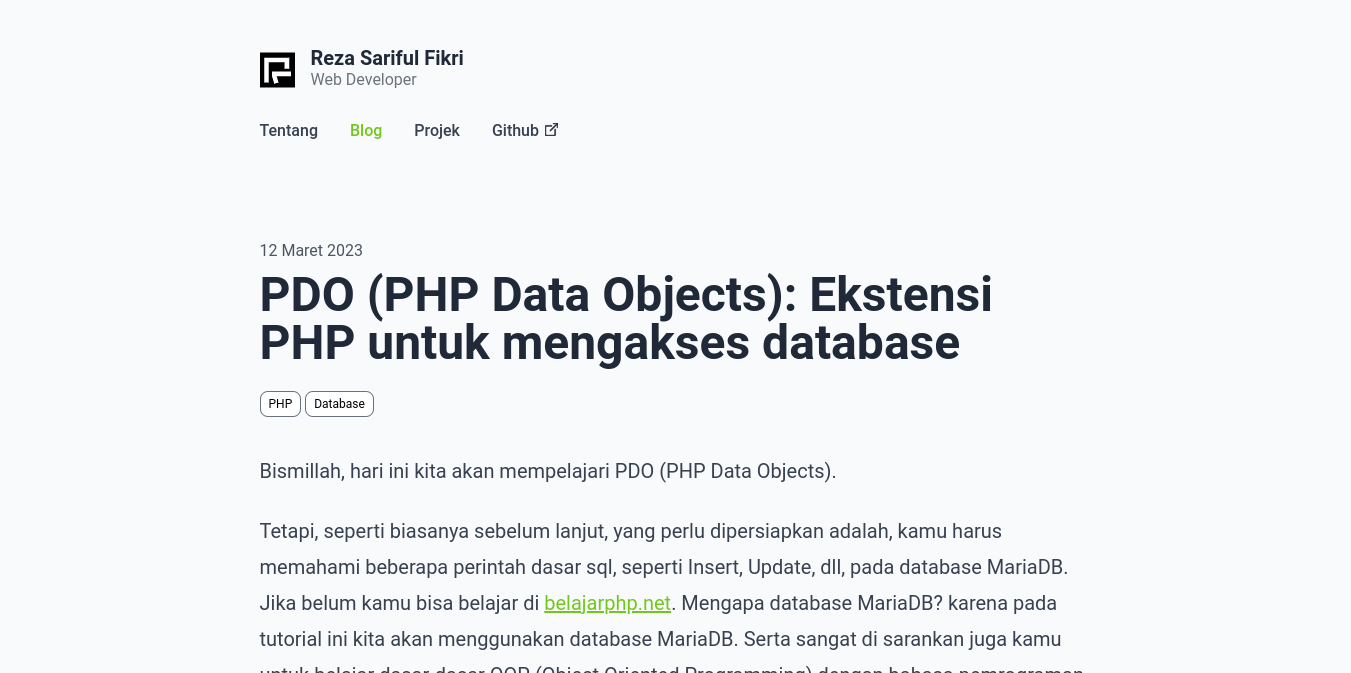
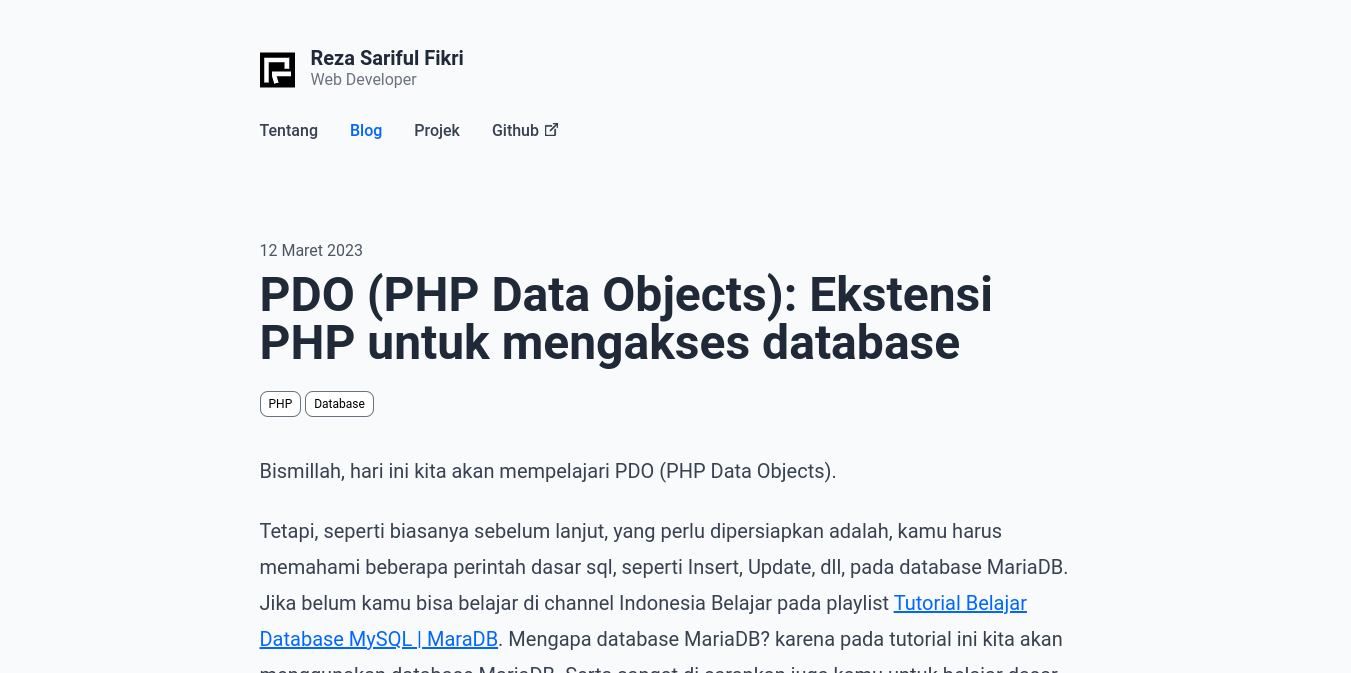
refactor: improve contrast color, add lang attribute in html tag and remove activeTopic file

Changed region(s): [[0.1865, 0.8737, 0.8083, 1.0], [0.2487, 0.1872, 0.2798, 0.2184]]

diff --git a/pages/about.js b/pages/about.js
@@ -24,16 +24,16 @@ export default function About({ name, baseUrl }) {
           <img src="/rezas.jpg" height={150} width={150} alt="Photo Profile" className="rounded-full" loading="lazy" decoding="async" />
         </div>
         <div className="flex gap-2 mt-5">
-          <Link href="https://github.com/rezafikkri" rel="noopener noreferrer" target="_blank" className="border-2 border-gray-500 hover:border-ajwa-green rounded-lg px-2.5 py-1.5">
+          <Link href="https://github.com/rezafikkri" rel="noopener noreferrer" target="_blank" className="border-2 border-gray-500 hover:border-ajwa-blue rounded-lg px-2.5 py-1.5">
             <svg xmlns="http://www.w3.org/2000/svg" width="17" height="17" viewBox="0 0 16 16"><path d="M8 0C3.58 0 0 3.58 0 8c0 3.54 2.29 6.53 5.47 7.59.4.07.55-.17.55-.38 0-.19-.01-.82-.01-1.49-2.01.37-2.53-.49-2.69-.94-.09-.23-.48-.94-.82-1.13-.28-.15-.68-.52-.01-.53.63-.01 1.08.58 1.23.82.72 1.21 1.87.87 2.33.66.07-.52.28-.87.51-1.07-1.78-.2-3.64-.89-3.64-3.95 0-.87.31-1.59.82-2.15-.08-.2-.36-1.02.08-2.12 0 0 .67-.21 2.2.82.64-.18 1.32-.27 2-.27.68 0 1.36.09 2 .27 1.53-1.04 2.2-.82 2.2-.82.44 1.1.16 1.92.08 2.12.51.56.82 1.27.82 2.15 0 3.07-1.87 3.75-3.65 3.95.29.25.54.73.54 1.48 0 1.07-.01 1.93-.01 2.2 0 .21.15.46.55.38A8.012 8.012 0 0 0 16 8c0-4.42-3.58-8-8-8z"/></svg>
           </Link>
-          <Link href="https://twitter.com/fikkrireza" rel="noopener noreferrer" target="_blank" className="border-2 border-gray-500 hover:border-ajwa-green rounded-lg px-2.5 py-1.5">
+          <Link href="https://twitter.com/fikkrireza" rel="noopener noreferrer" target="_blank" className="border-2 border-gray-500 hover:border-ajwa-blue rounded-lg px-2.5 py-1.5">
             <svg xmlns="http://www.w3.org/2000/svg" width="17" height="17" viewBox="0 0 16 16"><path d="M5.026 15c6.038 0 9.341-5.003 9.341-9.334 0-.14 0-.282-.006-.422A6.685 6.685 0 0 0 16 3.542a6.658 6.658 0 0 1-1.889.518 3.301 3.301 0 0 0 1.447-1.817 6.533 6.533 0 0 1-2.087.793A3.286 3.286 0 0 0 7.875 6.03a9.325 9.325 0 0 1-6.767-3.429 3.289 3.289 0 0 0 1.018 4.382A3.323 3.323 0 0 1 .64 6.575v.045a3.288 3.288 0 0 0 2.632 3.218 3.203 3.203 0 0 1-.865.115 3.23 3.23 0 0 1-.614-.057 3.283 3.283 0 0 0 3.067 2.277A6.588 6.588 0 0 1 .78 13.58a6.32 6.32 0 0 1-.78-.045A9.344 9.344 0 0 0 5.026 15z"/></svg>
           </Link>
-          <Link href="https://www.linkedin.com/in/reza-sariful-fikri-9356ab16a/" rel="noopener noreferrer" target="_blank" className="border-2 border-gray-500 hover:border-ajwa-green rounded-lg px-2.5 py-1.5">
+          <Link href="https://www.linkedin.com/in/reza-sariful-fikri-9356ab16a/" rel="noopener noreferrer" target="_blank" className="border-2 border-gray-500 hover:border-ajwa-blue rounded-lg px-2.5 py-1.5">
             <svg xmlns="http://www.w3.org/2000/svg" width="17" height="17" viewBox="0 0 16 16"><path d="M0 1.146C0 .513.526 0 1.175 0h13.65C15.474 0 16 .513 16 1.146v13.708c0 .633-.526 1.146-1.175 1.146H1.175C.526 16 0 15.487 0 14.854V1.146zm4.943 12.248V6.169H2.542v7.225h2.401zm-1.2-8.212c.837 0 1.358-.554 1.358-1.248-.015-.709-.52-1.248-1.342-1.248-.822 0-1.359.54-1.359 1.248 0 .694.521 1.248 1.327 1.248h.016zm4.908 8.212V9.359c0-.216.016-.432.08-.586.173-.431.568-.878 1.232-.878.869 0 1.216.662 1.216 1.634v3.865h2.401V9.25c0-2.22-1.184-3.252-2.764-3.252-1.274 0-1.845.7-2.165 1.193v.025h-.016a5.54 5.54 0 0 1 .016-.025V6.169h-2.4c.03.678 0 7.225 0 7.225h2.4z"/></svg>
           </Link>
-          <Link href="https://web.facebook.com/reza.sariful.fikri" rel="noopener noreferrer" target="_blank" className="border-2 border-gray-500 hover:border-ajwa-green rounded-lg px-2.5 py-1.5">
+          <Link href="https://web.facebook.com/reza.sariful.fikri" rel="noopener noreferrer" target="_blank" className="border-2 border-gray-500 hover:border-ajwa-blue rounded-lg px-2.5 py-1.5">
             <svg xmlns="http://www.w3.org/2000/svg" width="17" height="17" viewBox="0 0 16 16"><path d="M16 8.049c0-4.446-3.582-8.05-8-8.05C3.58 0-.002 3.603-.002 8.05c0 4.017 2.926 7.347 6.75 7.951v-5.625h-2.03V8.05H6.75V6.275c0-2.017 1.195-3.131 3.022-3.131.876 0 1.791.157 1.791.157v1.98h-1.009c-.993 0-1.303.621-1.303 1.258v1.51h2.218l-.354 2.326H9.25V16c3.824-.604 6.75-3.934 6.75-7.951z"/></svg>
           </Link>
         </div>

diff --git a/components/header.js b/components/header.js
@@ -4,7 +4,7 @@ import { useRouter } from "next/router";
 function activeNav(href) {
   const router = useRouter();
   const regex = new RegExp(`${href}*`);
-  if (regex.test(router.asPath)) return 'text-ajwa-green';
+  if (regex.test(router.asPath)) return 'text-ajwa-blue';
 }
 
 export default function Header() {
@@ -20,18 +20,18 @@ export default function Header() {
       <nav className={`mt-5 text-gray-700 font-medium`}>
         <ul>
           <li className="inline-block pr-8">
-            <Link href="/about" className={`hover:text-ajwa-green no-underline ${activeNav('/about')}`}>Tentang</Link>
+            <Link href="/about" className={`hover:text-ajwa-blue no-underline ${activeNav('/about')}`}>Tentang</Link>
           </li>
           <li className="inline-block pr-8">
-            <Link href="/blogs" className={`hover:text-ajwa-green no-underline ${activeNav('/blogs')}`}>Blog</Link>
+            <Link href="/blogs" className={`hover:text-ajwa-blue no-underline ${activeNav('/blogs')}`}>Blog</Link>
           </li>
           <li className="inline-block pr-8">
-            <Link href="/projects" className={`hover:text-ajwa-green no-underline ${activeNav('/projects')}`}>Projek</Link>
+            <Link href="/projects" className={`hover:text-ajwa-blue no-underline ${activeNav('/projects')}`}>Projek</Link>
           </li>
           <li className="inline-block">
-            <Link href="https://github.com/rezafikkri" className="group hover:text-ajwa-green no-underline" rel="noopener noreferrer" target="_blank">
+            <Link href="https://github.com/rezafikkri" className="group hover:text-ajwa-blue no-underline" rel="noopener noreferrer" target="_blank">
               <span className="mr-1.5">Github</span>
-              <svg xmlns="http://www.w3.org/2000/svg" width="13" height="13" className="inline-block align-baseline stroke-gray-700 group-hover:stroke-green-500" viewBox="0 0 16 16"><path fillRule="evenodd" d="M8.636 3.5a.5.5 0 0 0-.5-.5H1.5A1.5 1.5 0 0 0 0 4.5v10A1.5 1.5 0 0 0 1.5 16h10a1.5 1.5 0 0 0 1.5-1.5V7.864a.5.5 0 0 0-1 0V14.5a.5.5 0 0 1-.5.5h-10a.5.5 0 0 1-.5-.5v-10a.5.5 0 0 1 .5-.5h6.636a.5.5 0 0 0 .5-.5z"/><path fillRule="evenodd" d="M16 .5a.5.5 0 0 0-.5-.5h-5a.5.5 0 0 0 0 1h3.793L6.146 9.146a.5.5 0 1 0 .708.708L15 1.707V5.5a.5.5 0 0 0 1 0v-5z"/></svg>
+              <svg xmlns="http://www.w3.org/2000/svg" width="13" height="13" className="inline-block align-baseline stroke-gray-700 group-hover:stroke-ajwa-blue" viewBox="0 0 16 16"><path fillRule="evenodd" d="M8.636 3.5a.5.5 0 0 0-.5-.5H1.5A1.5 1.5 0 0 0 0 4.5v10A1.5 1.5 0 0 0 1.5 16h10a1.5 1.5 0 0 0 1.5-1.5V7.864a.5.5 0 0 0-1 0V14.5a.5.5 0 0 1-.5.5h-10a.5.5 0 0 1-.5-.5v-10a.5.5 0 0 1 .5-.5h6.636a.5.5 0 0 0 .5-.5z"/><path fillRule="evenodd" d="M16 .5a.5.5 0 0 0-.5-.5h-5a.5.5 0 0 0 0 1h3.793L6.146 9.146a.5.5 0 1 0 .708.708L15 1.707V5.5a.5.5 0 0 0 1 0v-5z"/></svg>
             </Link>
           </li>
         </ul>

diff --git a/pages/index.js b/pages/index.js
@@ -34,7 +34,7 @@ export default function Home({ topics, latestPosts, name, baseUrl }) {
         <ul className="mt-6 flex flex-col divide-y divide-gray-200">
           {latestPosts.map((post, index) => (
             <li className="py-2 md:py-1.5" key={index}>
-              <Link href={`/blogs/${post.slug}`} className="flex flex-col md:flex-row md:justify-between no-underline hover:text-ajwa-green">
+              <Link href={`/blogs/${post.slug}`} className="flex flex-col md:flex-row md:justify-between no-underline hover:text-ajwa-blue">
                 <h3 className="text-xl">{post.title}</h3>
                 <time className="font-light md:basis-40 md:text-right">{dayjs(post.date).fromNow()}</time>
               </Link>
@@ -76,7 +76,7 @@ export default function Home({ topics, latestPosts, name, baseUrl }) {
             </div>
           </div>
         </div>
-        <Link href="/projects" className="inline-block no-underline mt-5 hover:text-ajwa-green">Lihat Semua &raquo;</Link>
+        <Link href="/projects" className="inline-block no-underline mt-5 hover:text-ajwa-blue">Lihat Semua &raquo;</Link>
       </section>
     </>
   )

diff --git a/pages/blogs/topics/[topic].js b/pages/blogs/topics/[topic].js
@@ -2,7 +2,6 @@ import Head from "next/head";
 import Link from "next/link";
 import PostList from "@/components/post-list";
 import { getPosts, getTopics } from "@/lib/posts";
-import activeTopic from "@/lib/activeTopic";
 
 export default function Topic({ selectedTopic, topics, posts, name, baseUrl }) {
   const title = `${selectedTopic} - ${name}`;
@@ -26,7 +25,7 @@ export default function Topic({ selectedTopic, topics, posts, name, baseUrl }) {
             <Link
               key={index}
               href={`/blogs/topics/${topic}`}
-              className={`no-underline bg-white border-2 border-gray-500 hover:border-ajwa-green px-2 py-1 rounded-lg ${activeTopic(topic, selectedTopic)}`}
+              className={`no-underline bg-white border-2 ${selectedTopic == topic ? 'border-ajwa-blue' : 'border-gray-500'} hover:border-ajwa-blue px-2 py-1 rounded-lg`}
             >
               {topic}
             </Link>

diff --git a/components/post-list.js b/components/post-list.js
@@ -16,7 +16,7 @@ export default function PostList({ posts }) {
           <React.Fragment key={index}>
             {currentYear != year && <h3 className={`text-2xl font-bold mb-2 ${currentYear != 0 && 'mt-6'}`}>{year}</h3>}
             <li className={`py-2 md:py-1.5 ${currentYear === year && 'border-t'}`}>
-              <Link href={`/blogs/${post.slug}`} className="flex flex-col md:flex-row md:justify-between no-underline hover:text-ajwa-green">
+              <Link href={`/blogs/${post.slug}`} className="flex flex-col md:flex-row md:justify-between no-underline hover:text-ajwa-blue">
                 <h3 className="text-xl">{post.title}</h3>
                 <time className="font-light md:basis-24 md:text-right">{dayjs(post.date).format('DD MMM')}</time>
               </Link>

diff --git a/tailwind.config.js b/tailwind.config.js
@@ -9,7 +9,7 @@ module.exports = {
   theme: {
     extend: {
       colors: {
-        "ajwa-green": "#72C71D",
+        "ajwa-blue": "#0066FF",
       },
       typography: ({ theme }) => ({
         DEFAULT: {
@@ -42,7 +42,7 @@ module.exports = {
             '--tw-prose-body': theme('colors.gray[700]'),
             '--tw-prose-headings': theme('colors.gray[800]'),
             '--tw-prose-lead': theme('colors.gray[700]'),
-            '--tw-prose-links': theme('colors.ajwa-green'),
+            '--tw-prose-links': theme('colors.ajwa-blue'),
             '--tw-prose-bold': theme('colors.gray[800]'),
             '--tw-prose-counters': theme('colors.gray[600]'),
             '--tw-prose-bullets': theme('colors.gray[400]'),

diff --git a/styles/nprogress.css b/styles/nprogress.css
@@ -4,7 +4,7 @@
 }
 
 #nprogress .bar {
-  background: #72C71D;
+  background: #0066FF;
 
   position: fixed;
   z-index: 1031;
@@ -22,7 +22,7 @@
   right: 0px;
   width: 100px;
   height: 100%;
-  box-shadow: 0 0 10px #72C71D, 0 0 5px #72C71D;
+  box-shadow: 0 0 10px #0066FF, 0 0 5px #0066FF;
   opacity: 1.0;
 
   -webkit-transform: rotate(3deg) translate(0px, -4px);
@@ -45,8 +45,8 @@
   box-sizing: border-box;
 
   border: solid 2px transparent;
-  border-top-color: #72C71D;
-  border-left-color: #72C71D;
+  border-top-color: #0066FF;
+  border-left-color: #0066FF;
   border-radius: 50%;
 
   -webkit-animation: nprogress-spinner 400ms linear infinite;

diff --git a/components/footer.js b/components/footer.js
@@ -2,7 +2,7 @@ import Link from "next/link";
 
 export default function Footer() {
   return (
-    <footer className="mt-20 md:mt-28 flex flex-col md:flex-row md:justify-between py-4 text-sm text-gray-400">
+    <footer className="mt-20 md:mt-28 flex flex-col md:flex-row md:justify-between py-4 text-sm text-gray-500">
       <p>Copyright &copy; 2023</p>
       <p>Dibuat dengan <Link href="https://nextjs.org">Next.js</Link>, <Link href="https://tailwindcss.com">Tailwind CSS</Link> dan <Link href="https://rstacruz.github.io/nprogress">NProgress.js</Link></p>
     </footer>

diff --git a/components/small-topics.js b/components/small-topics.js
@@ -4,7 +4,7 @@ export default function SmallTopics({ topics, mt })  {
   return (
     <div className={`flex flex-wrap gap-1 ${mt}`}>
       {topics.map((topic, index) => (
-        <Link key={index} href={`/blogs/topics/${topic}`} className="no-underline text-xs bg-white border border-gray-500 hover:border-ajwa-green px-2 py-1 rounded-lg">{topic}</Link>
+        <Link key={index} href={`/blogs/topics/${topic}`} className="no-underline text-xs bg-white border border-gray-500 hover:border-ajwa-blue px-2 py-1 rounded-lg">{topic}</Link>
       ))}
     </div>
   );

diff --git a/components/large-topics.js b/components/large-topics.js
@@ -4,7 +4,7 @@ export default function LargeTopics({ topics, mt }) {
   return (
     <div className={`flex flex-wrap gap-2 ${mt}`}>
       {topics.map((topic, index) => (
-        <Link key={index} href={`/blogs/topics/${topic}`} className="no-underline bg-white border-2 border-gray-500 hover:border-ajwa-green px-2 py-1 rounded-lg">{topic}</Link>
+        <Link key={index} href={`/blogs/topics/${topic}`} className="no-underline bg-white border-2 border-gray-500 hover:border-ajwa-blue px-2 py-1 rounded-lg">{topic}</Link>
       ))}
     </div>
   );

diff --git a/pages/_document.js b/pages/_document.js
@@ -2,7 +2,7 @@ import { Html, Head, Main, NextScript } from 'next/document';
 
 export default function Document() {
   return (
-    <Html>
+    <Html lang="id">
       <Head />
       <body className="h-screen bg-gray-50">
         <Main />

diff --git a/styles/globals.css b/styles/globals.css
@@ -8,7 +8,7 @@
   }
 
   p a {
-    @apply text-ajwa-green;
+    @apply text-ajwa-blue;
   }
 
   p a:hover {
